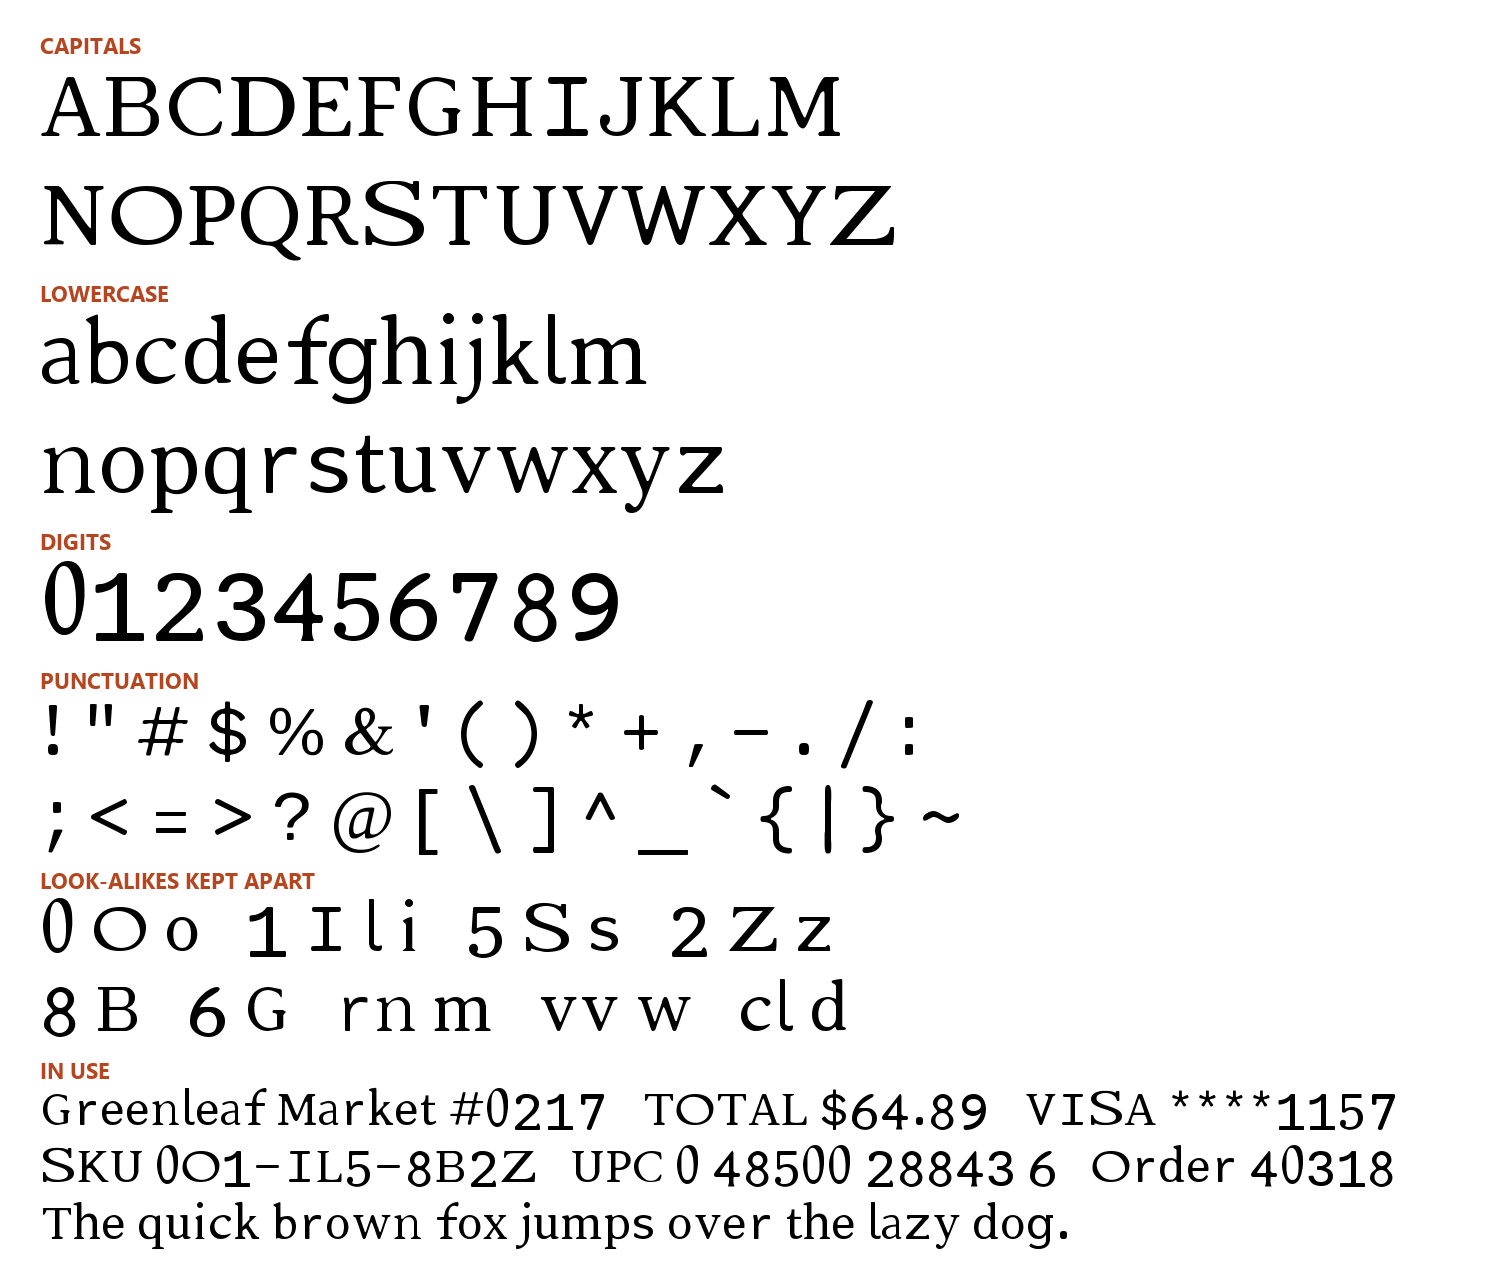
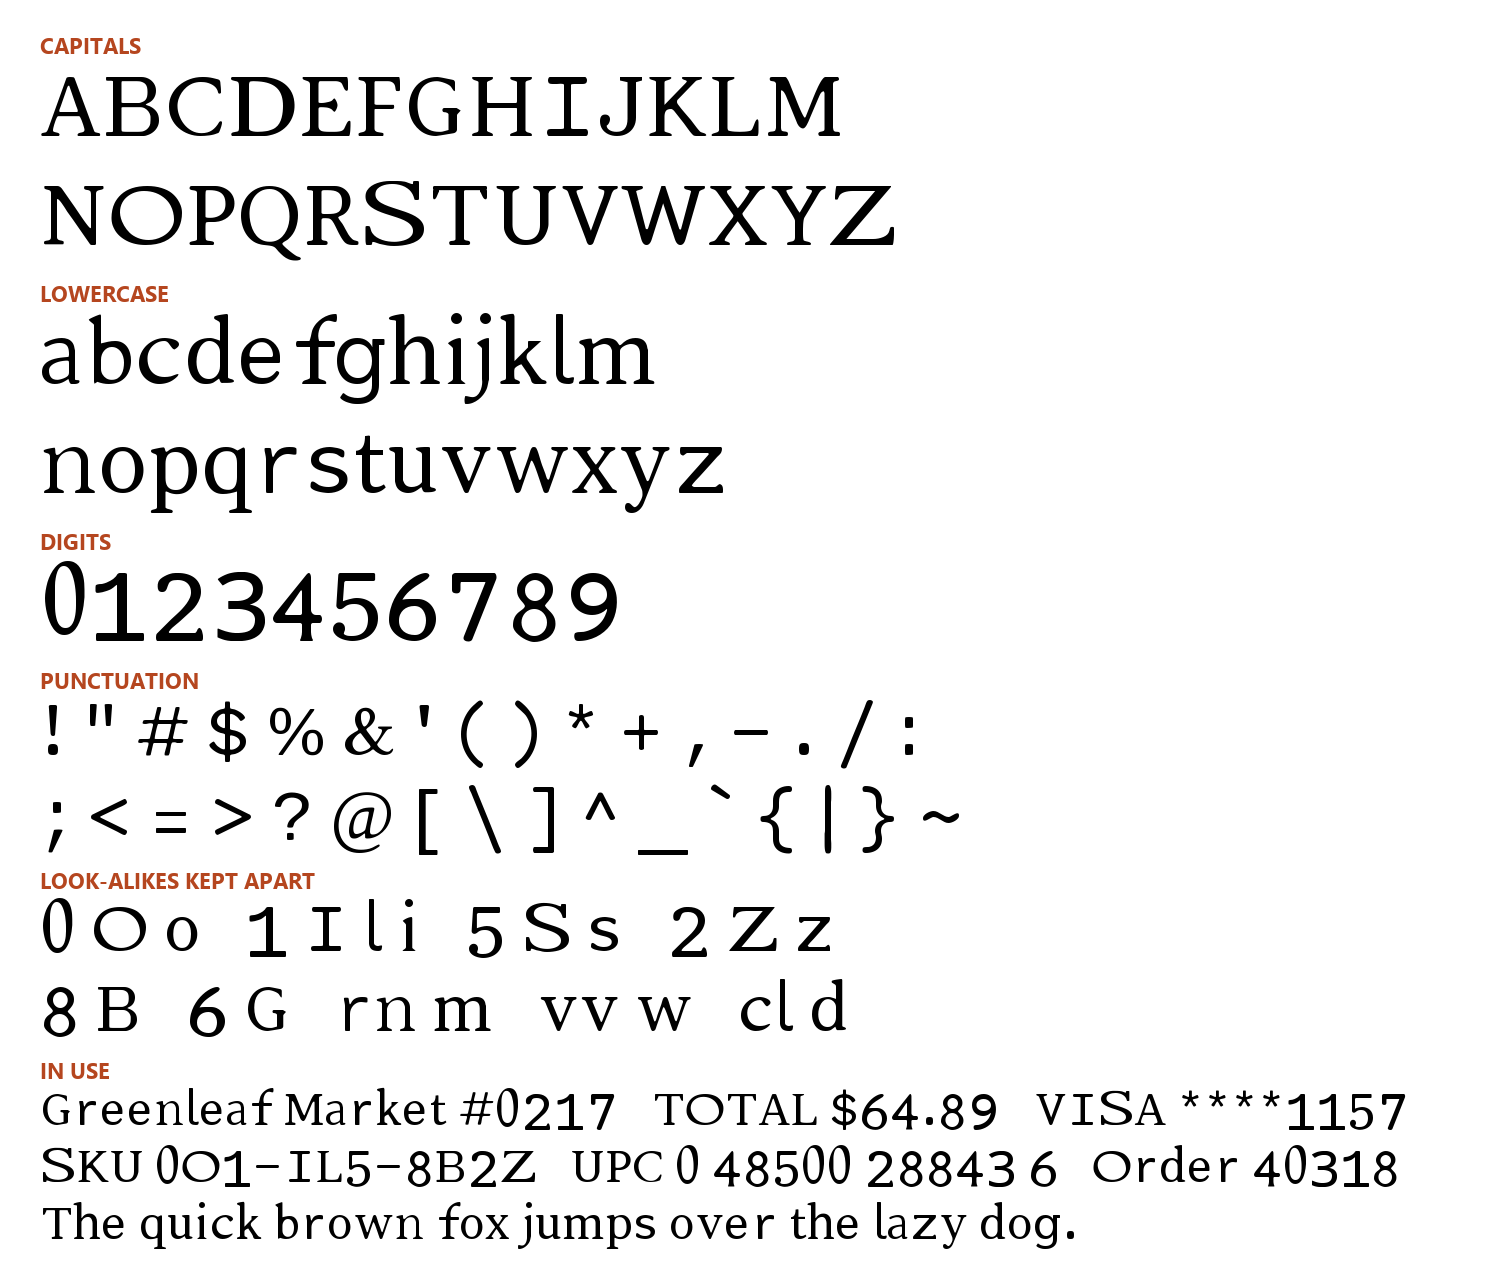
README v0.99.2: new 3 from Noto Sans; numbers 2.89 -> 2.86, ink-bleed numbers 0.39 -> 0.10

diff --git a/README.md b/README.md
@@ -6,7 +6,7 @@ but every character is shaped and spaced so that OCR engines confuse it with as 
 
 ![MaxOCR character set](docs/specimen.png)
 
-**Version 0.99.1.** 95 characters: A–Z, a–z, 0–9, space and all 32 ASCII punctuation marks.
+**Version 0.99.2.** 95 characters: A–Z, a–z, 0–9, space and all 32 ASCII punctuation marks.
 
 ## Which file to use
 
@@ -214,6 +214,9 @@ the test's noise. MaxOCR's advantage is with conventional OCR engines and damage
 6. **Codes and numbers.** Inside codes the lowercase letters are slightly smaller (74% of the capital height
    instead of 78%), so engines can tell W from w and O from o without context; numbers get a little extra space
    between digits; and the digits have more even strokes, so they survive thinned or broken print.
+7. **The 3 for ink bleed.** When ink spreads, our old 3 clumped and Tesseract returned nothing for whole lines of
+   numbers. The 3s of 80 open-licence fonts were each fitted into MaxOCR's 3 and tested; the 3 from Noto Sans
+   (Google, SIL Open Font License) cut errors on ink-bleed numbers from 0.39% to 0.10%.
 
 `DECISIONS.md` records every step, measurement and choice.
 
